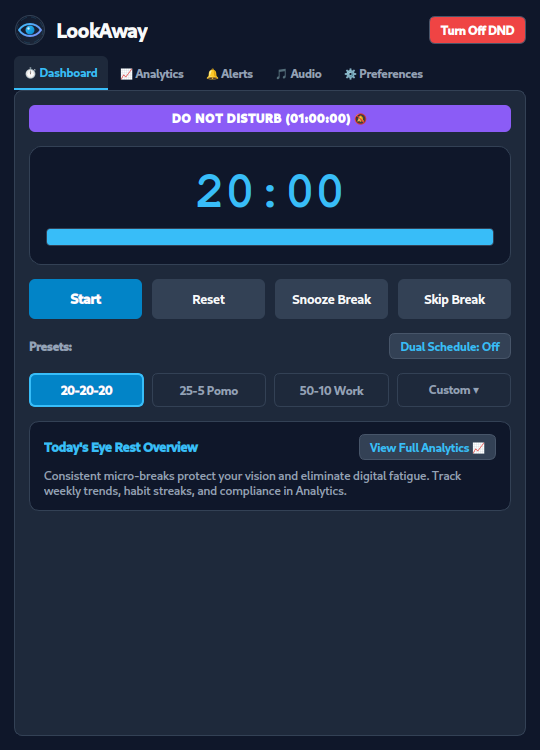
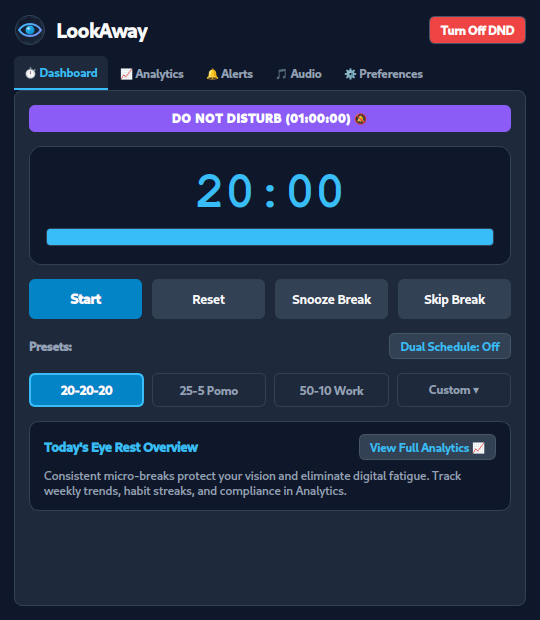
feat: add Windows resource file, improve installer packaging, and update UI layout and sizing

diff --git a/src/MainWindow.cpp b/src/MainWindow.cpp
@@ -16,6 +16,7 @@
 #include <QListView>
 #include <QFileDialog>
 #include <functional>
+#include <algorithm>
 
 MainWindow::MainWindow(TimerEngine* timerEngine, SettingsManager* settings, AudioManager* audioManager, QWidget* parent)
     : QMainWindow(parent),
@@ -27,7 +28,14 @@ MainWindow::MainWindow(TimerEngine* timerEngine, SettingsManager* settings, Audi
 
     setWindowIcon(QIcon(":/icons/app_icon.svg"));
     setWindowTitle("LookAway - 20-20-20 Eye Care");
-    setFixedSize(540, 750);
+    setMinimumSize(480, 520);
+
+    // Adapt window initial size to screen's available desktop work area (handles laptops, 720p/768p & fractional DPI)
+    QScreen* screen = QGuiApplication::primaryScreen();
+    QRect availGeo = screen ? screen->availableGeometry() : QRect(0, 0, 1024, 768);
+    int targetWidth = std::clamp(540, 480, std::max(480, availGeo.width() - 40));
+    int targetHeight = std::clamp(620, 520, std::max(520, availGeo.height() - 60));
+    resize(targetWidth, targetHeight);
 
     m_hotkeyManager = new GlobalHotkeyManager(m_settings, this);
     connect(m_hotkeyManager, &GlobalHotkeyManager::togglePauseResumeRequested, this, [this]() {
@@ -213,8 +221,20 @@ void MainWindow::setupUi() {
 }
 
 QWidget* MainWindow::createDashboardTab() {
-    QWidget* tab = new QWidget();
-    QVBoxLayout* layout = new QVBoxLayout(tab);
+    QScrollArea* scrollArea = new QScrollArea();
+    scrollArea->setWidgetResizable(true);
+    scrollArea->setFrameShape(QFrame::NoFrame);
+    scrollArea->setHorizontalScrollBarPolicy(Qt::ScrollBarAlwaysOff);
+    scrollArea->setVerticalScrollBarPolicy(Qt::ScrollBarAsNeeded);
+    scrollArea->setObjectName("dashboardScrollArea");
+    scrollArea->setStyleSheet("#dashboardScrollArea { background: transparent; border: none; }");
+
+    QWidget* tabContent = new QWidget();
+    tabContent->setObjectName("tabDashboardContent");
+    tabContent->setStyleSheet("#tabDashboardContent { background: transparent; }");
+    tabContent->setSizePolicy(QSizePolicy::Preferred, QSizePolicy::Preferred);
+
+    QVBoxLayout* layout = new QVBoxLayout(tabContent);
     layout->setContentsMargins(14, 14, 14, 14);
     layout->setSpacing(14);
 
@@ -469,7 +489,8 @@ QWidget* MainWindow::createDashboardTab() {
         m_timerEngine->skipBreak();
     });
 
-    return tab;
+    scrollArea->setWidget(tabContent);
+    return scrollArea;
 }
 
 void MainWindow::rebuildCustomPresetMenu() {

diff --git a/src/main.cpp b/src/main.cpp
@@ -1,4 +1,5 @@
 #include <QApplication>
+#include <QGuiApplication>
 #include <QCommandLineParser>
 #include <QLocalServer>
 #include <QLocalSocket>
@@ -9,9 +10,11 @@
 #include "MainWindow.h"
 
 int main(int argc, char *argv[]) {
+    QGuiApplication::setHighDpiScaleFactorRoundingPolicy(Qt::HighDpiScaleFactorRoundingPolicy::PassThrough);
     QApplication app(argc, argv);
     QApplication::setApplicationName("LookAway");
-    QApplication::setOrganizationName("LookAway");
+    QApplication::setOrganizationName("itsrajadarsh");
+    QApplication::setOrganizationDomain("github.com/itsrajadarsh");
     QApplication::setApplicationVersion("2.0.0");
     QApplication::setQuitOnLastWindowClosed(false);
 
